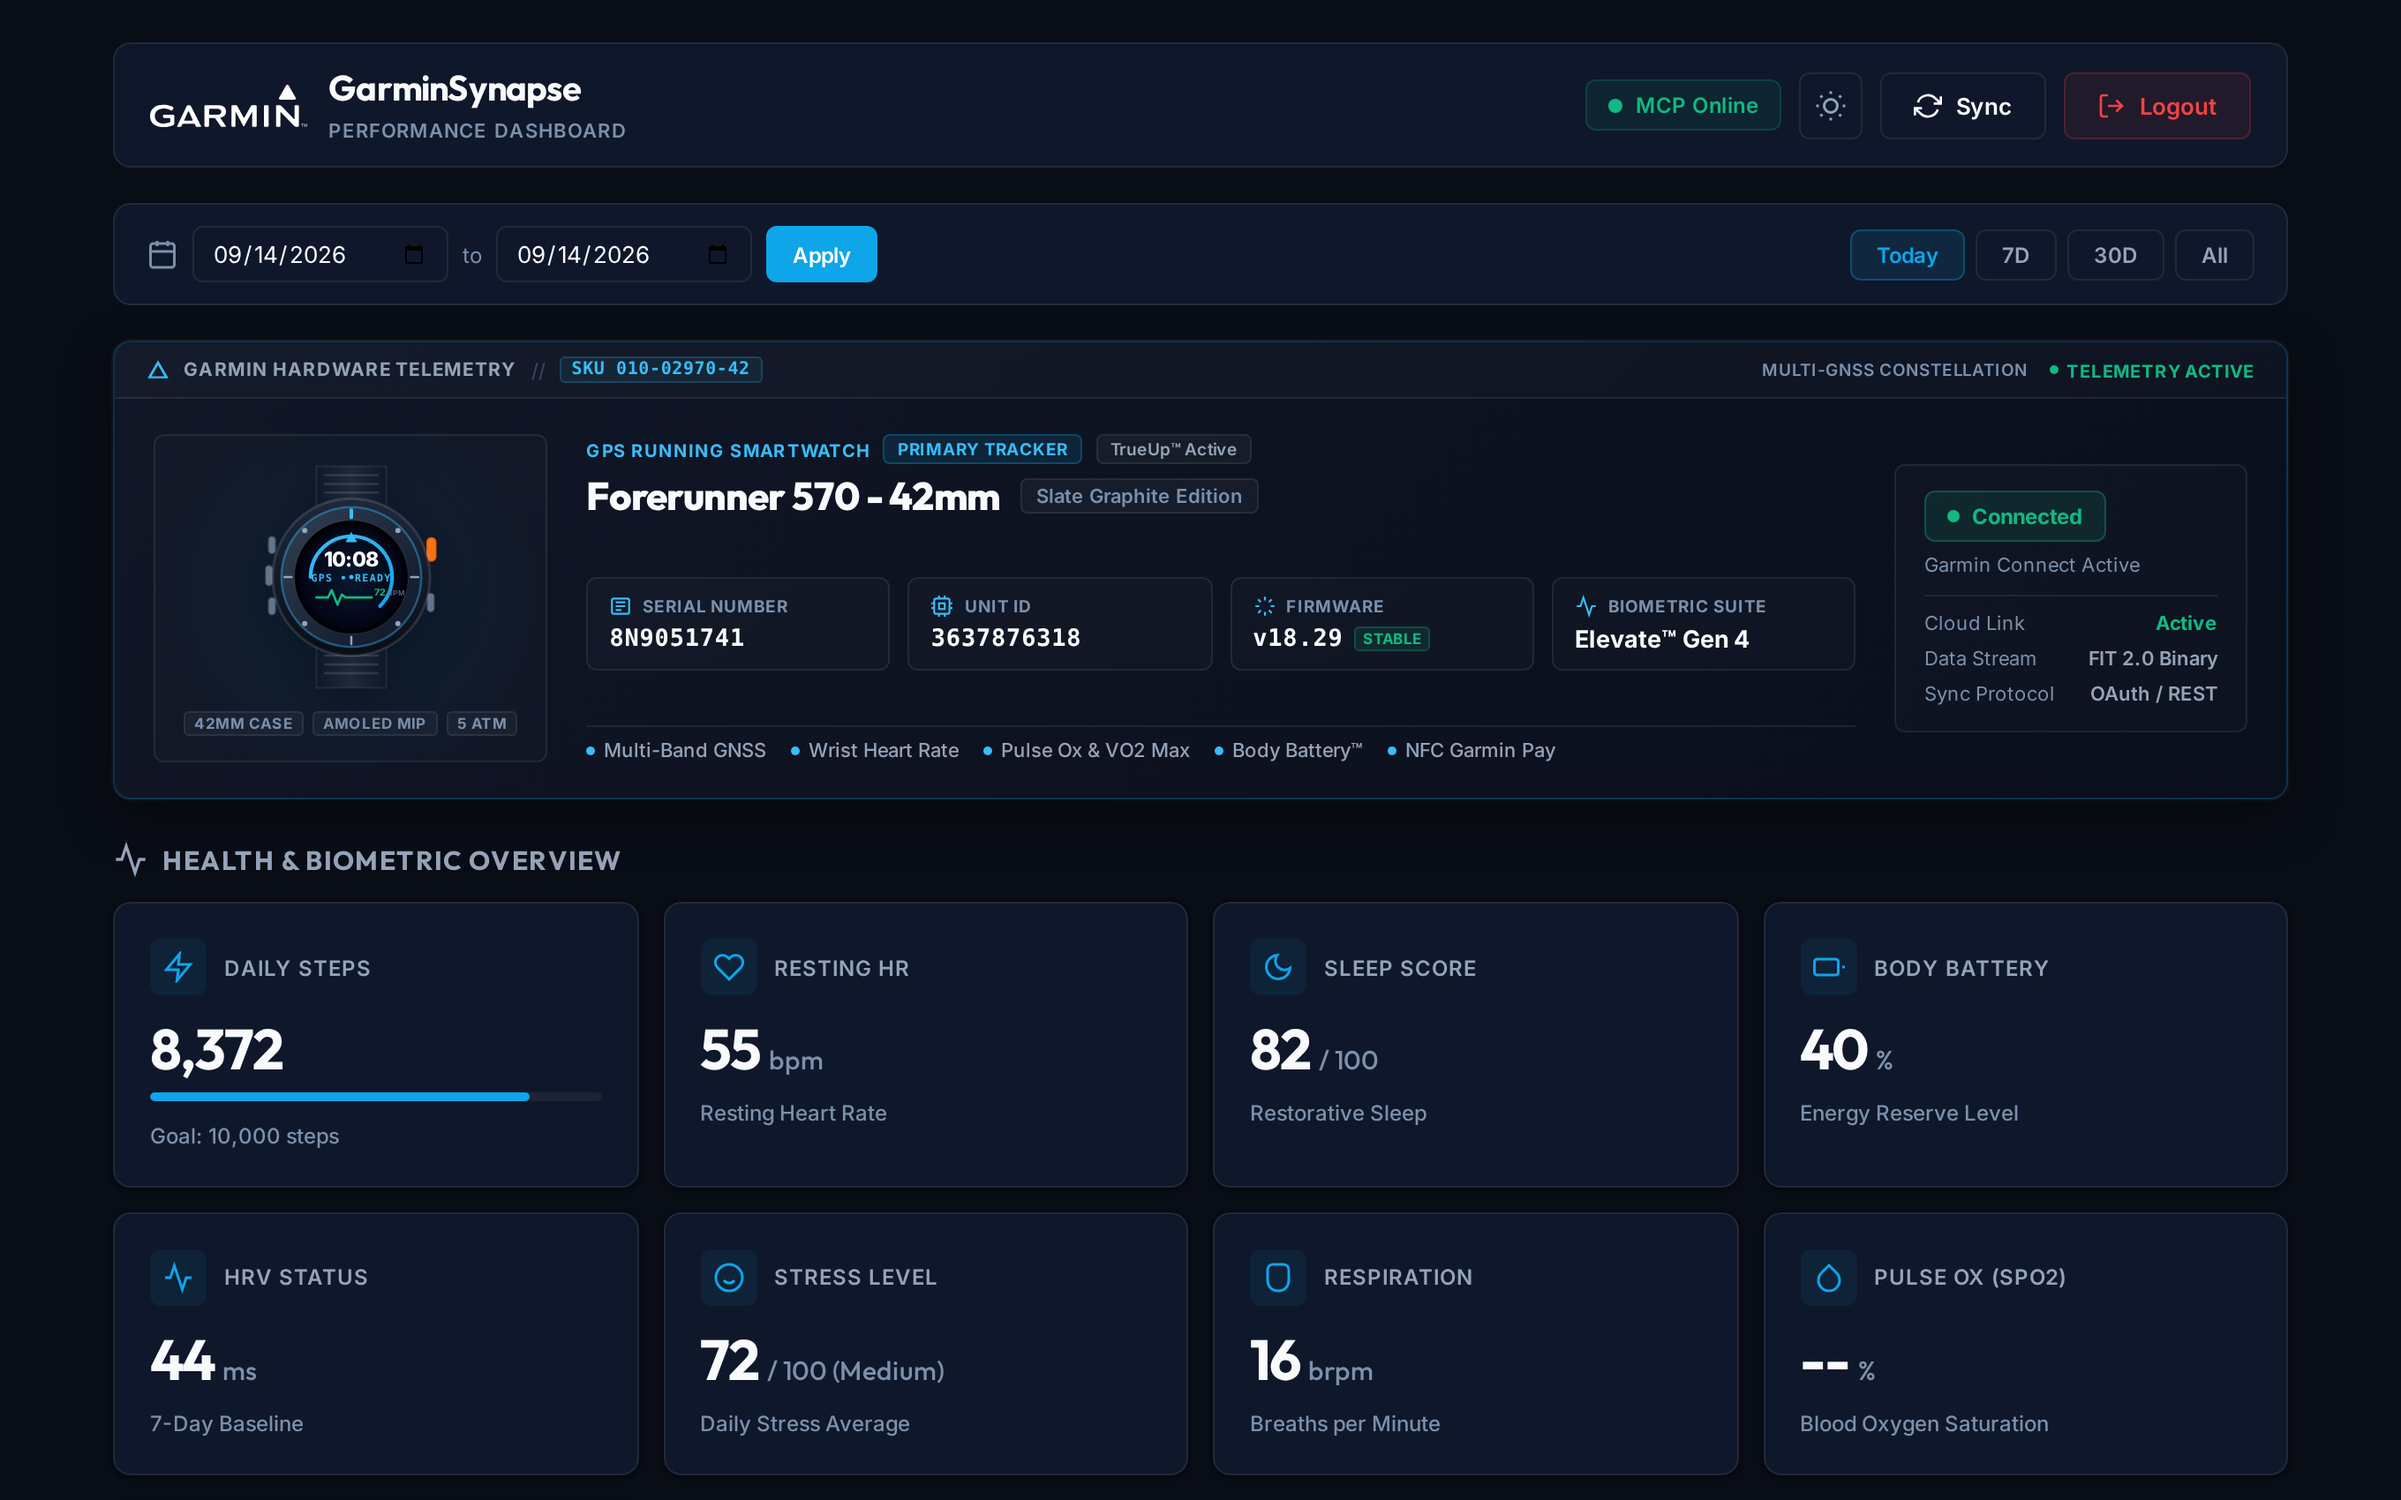
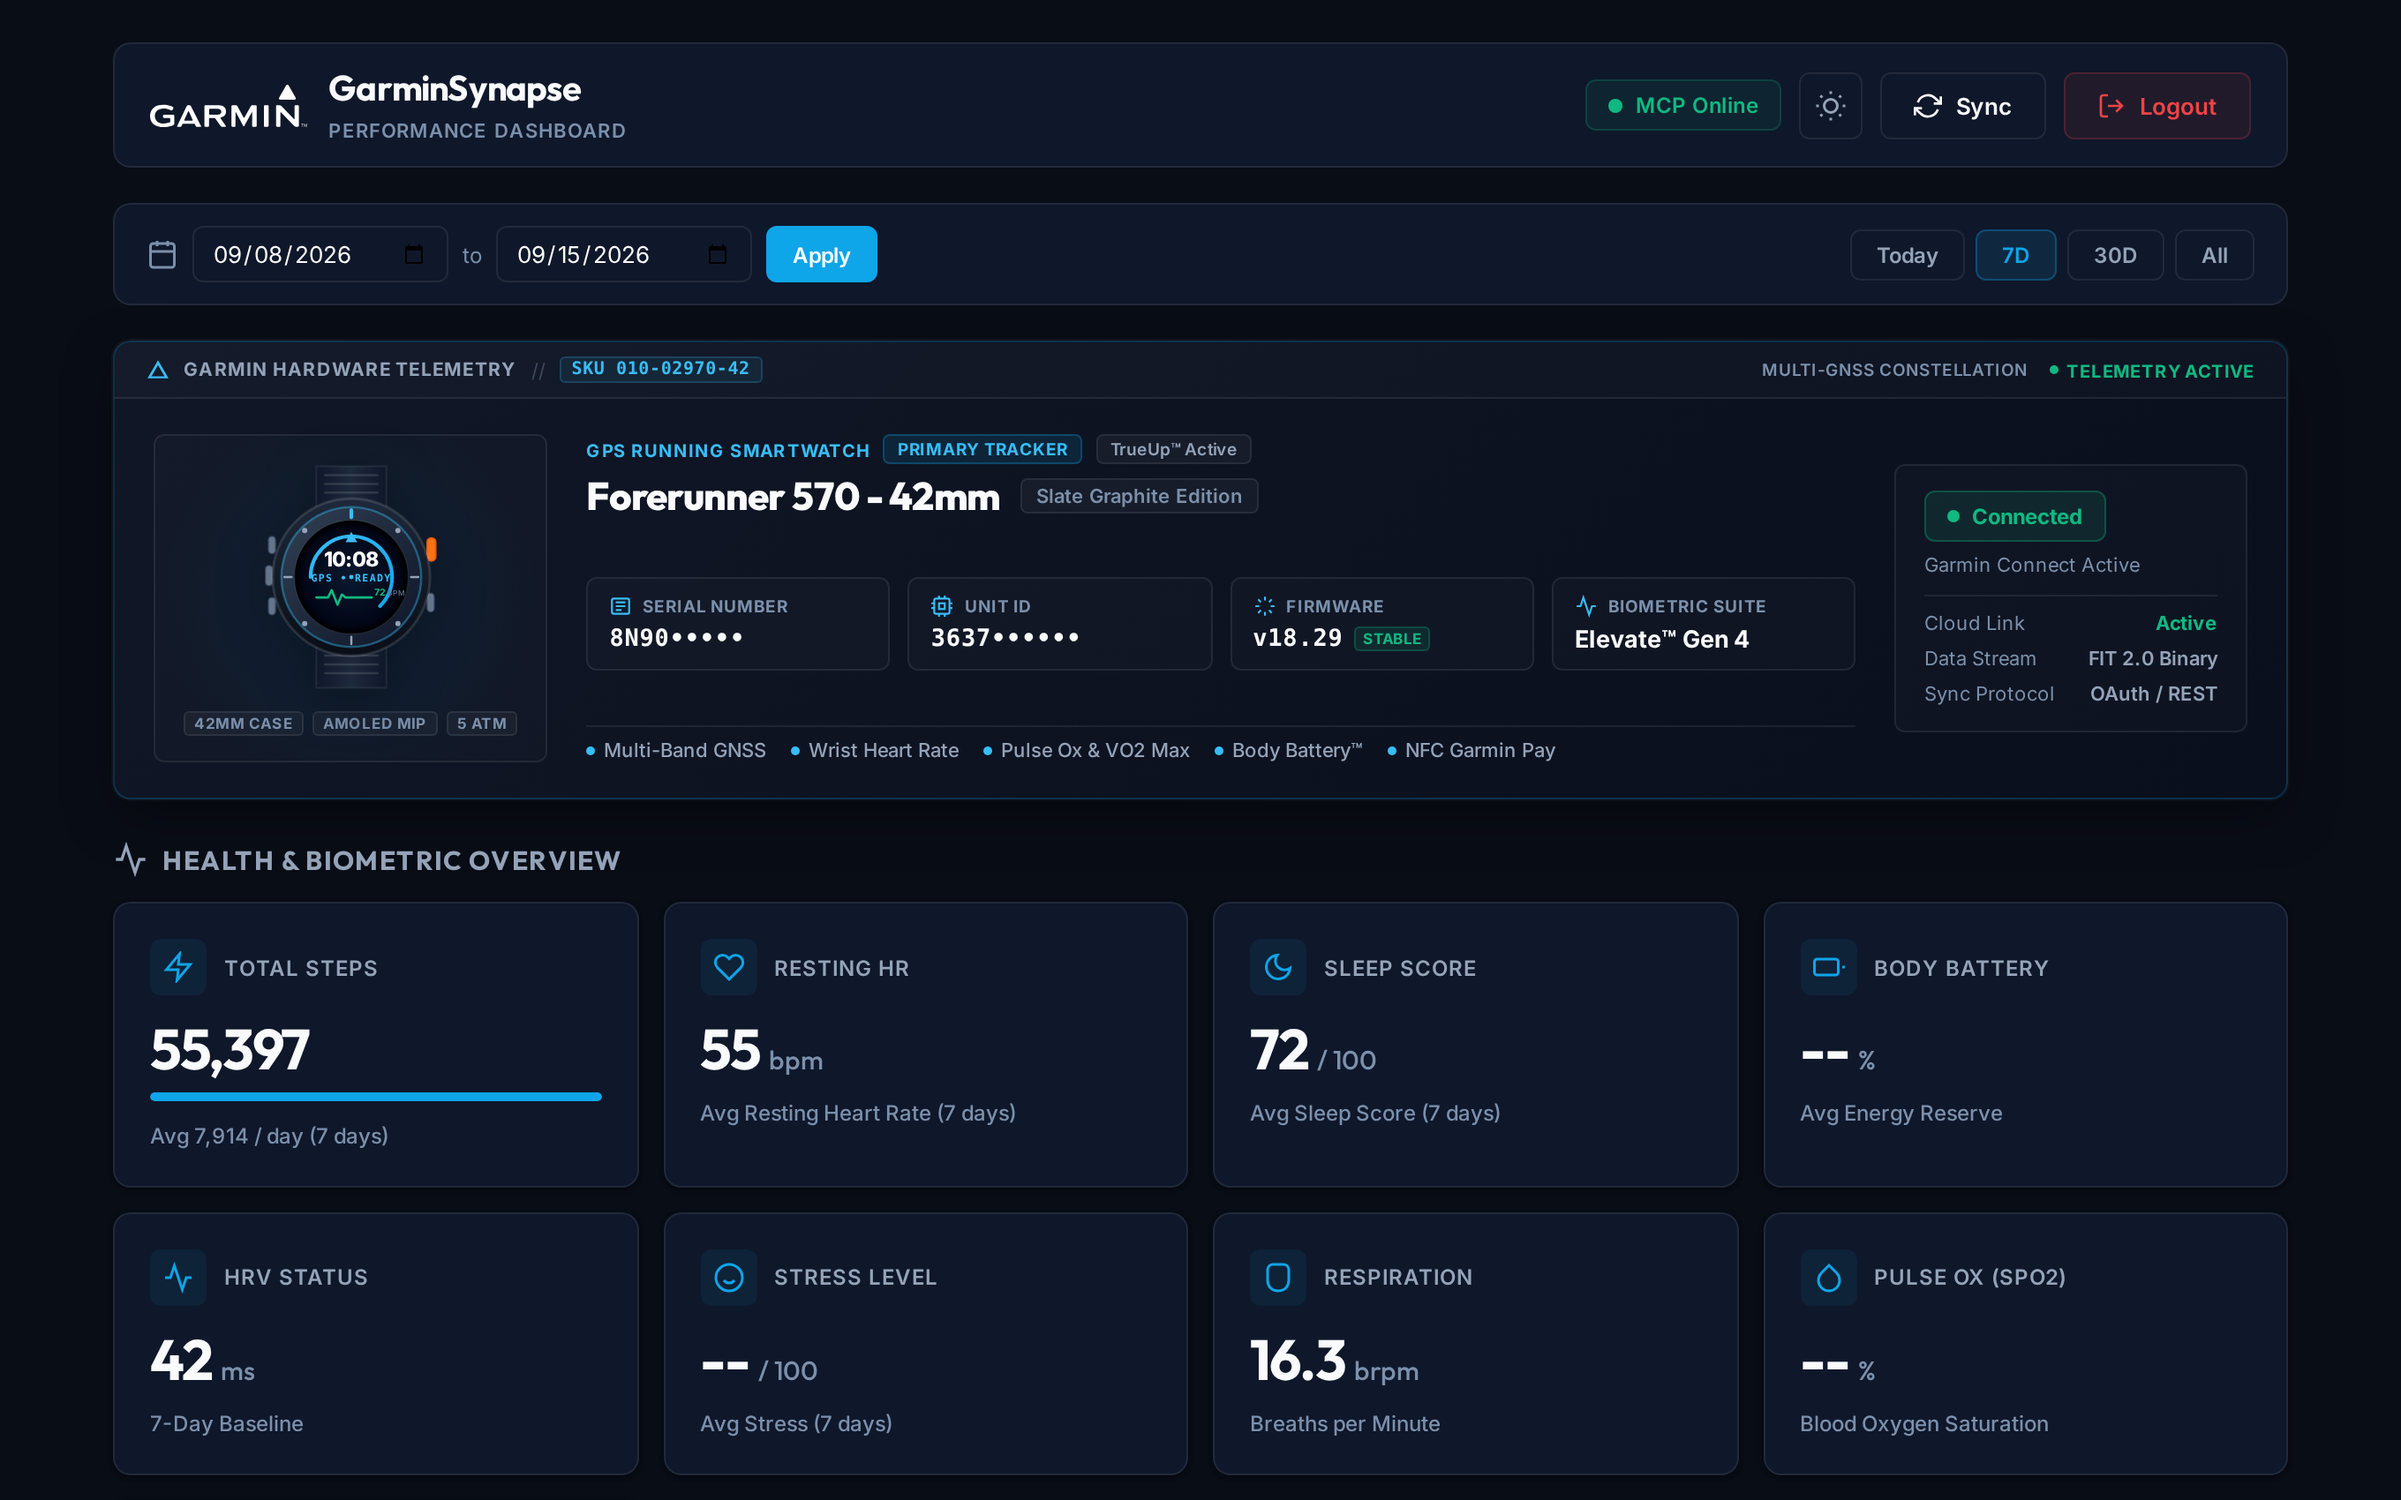
docs & privacy: place preview at top of README and mask hardware serial numbers

diff --git a/src/garminsynapse/web/static/js/app.js b/src/garminsynapse/web/static/js/app.js
@@ -128,9 +128,34 @@ document.addEventListener('DOMContentLoaded', () => {
 
         if (dev) {
             const devName = dev.productDisplayName || dev.displayName || dev.deviceCategory || 'Garmin Watch';
-            if (modelElem) modelElem.textContent = devName;
-            if (snElem) snElem.textContent = dev.serialNumber || 'N/A';
-            if (unitIdElem) unitIdElem.textContent = dev.unitId ? String(dev.unitId) : 'N/A';
+            function maskIdentifier(val, prefixLen = 4) {
+                if (!val || val === 'N/A') return 'N/A';
+                const str = String(val);
+                if (str.length <= prefixLen) return '••••';
+                return str.substring(0, prefixLen) + '•'.repeat(Math.max(4, str.length - prefixLen));
+            }
+
+            const rawSn = dev.serialNumber || 'N/A';
+            const maskedSn = maskIdentifier(rawSn, 4);
+            if (snElem) {
+                snElem.textContent = maskedSn;
+                snElem.title = 'Click to reveal / hide serial number';
+                snElem.style.cursor = 'pointer';
+                snElem.onclick = () => {
+                    snElem.textContent = (snElem.textContent === maskedSn) ? rawSn : maskedSn;
+                };
+            }
+
+            const rawUnitId = dev.unitId ? String(dev.unitId) : 'N/A';
+            const maskedUnitId = maskIdentifier(rawUnitId, 4);
+            if (unitIdElem) {
+                unitIdElem.textContent = maskedUnitId;
+                unitIdElem.title = 'Click to reveal / hide unit ID';
+                unitIdElem.style.cursor = 'pointer';
+                unitIdElem.onclick = () => {
+                    unitIdElem.textContent = (unitIdElem.textContent === maskedUnitId) ? rawUnitId : maskedUnitId;
+                };
+            }
             if (fwElem) fwElem.textContent = dev.currentFirmwareVersion ? `v${dev.currentFirmwareVersion}` : 'N/A';
             if (skuElem && dev.actualProductSku) skuElem.textContent = `SKU ${dev.actualProductSku}`;
             if (sensorElem) sensorElem.textContent = 'Elevate™ Gen 4';

diff --git a/src/garminsynapse/web/static/index.html b/src/garminsynapse/web/static/index.html
@@ -785,7 +785,7 @@
                                     </svg>
                                     <span class="telemetry-label">SERIAL NUMBER</span>
                                 </div>
-                                <span class="telemetry-value font-mono" id="device-sn-val">8N9051741</span>
+                                <span class="telemetry-value font-mono" id="device-sn-val" title="Click to reveal / hide" style="cursor: pointer;">8N90•••••</span>
                             </div>
 
                             <div class="telemetry-box">
@@ -797,7 +797,7 @@
                                     </svg>
                                     <span class="telemetry-label">UNIT ID</span>
                                 </div>
-                                <span class="telemetry-value font-mono" id="device-unitid-val">3637876318</span>
+                                <span class="telemetry-value font-mono" id="device-unitid-val" title="Click to reveal / hide" style="cursor: pointer;">3637••••••</span>
                             </div>
 
                             <div class="telemetry-box">

diff --git a/CHANGELOG.md b/CHANGELOG.md
@@ -12,7 +12,7 @@ and this project adheres to [Semantic Versioning](https://semver.org/spec/v2.0.0
 - **Engineered Hardware Telemetry Cockpit** (`web/static/`):
   - Completely redesigned device section into a high-precision athletic hardware cockpit compliant with `antislop-ui` standards.
   - **High-Definition Smartwatch Graphic**: Multi-layered vector illustration of the Garmin Forerunner GPS smartwatch featuring brushed titanium bezel, 4 hex-screws, 5 ergonomic physical pushers (including signature athletic orange `START/STOP` ring), ribbed silicone straps, and an AMOLED watch face with active ECG pulse wave, step progress arc, and digital time.
-  - **4-Box Modular Telemetry Pods**: Monospace hardware identifiers for Serial Number (`8N9051741`), Unit ID (`3637876318`), Firmware (`v18.29` with `STABLE` badge), and Biometric Sensor Suite (`Elevate™ Gen 4`).
+  - **4-Box Modular Telemetry Pods**: Monospace hardware identifiers with click-to-reveal privacy masking for Serial Number (`8N90•••••`), Unit ID (`3637••••••`), Firmware (`v18.29` with `STABLE` badge), and Biometric Sensor Suite (`Elevate™ Gen 4`).
   - **HUD Telemetry Eyebrow & Capabilities Bar**: Top HUD banner with Garmin Delta emblem, SKU badge (`010-02970-42`), satellite constellation readout (`MULTI-GNSS`), and sensor capabilities strip (`Multi-Band GNSS`, `Wrist HR`, `Pulse Ox & VO2 Max`, `Body Battery™`, `NFC Pay`).
   - **Live Connection Cockpit**: Dedicated right-hand status panel with solid status dot, Garmin Connect link status, and data stream matrix (`FIT 2.0 Binary`, `OAuth / REST`).
 

diff --git a/README.md b/README.md
@@ -1,3 +1,7 @@
+<p align="center">
+  <img src="assets/dashboard.png" alt="GarminSynapse Web Dashboard & Hardware Cockpit" width="100%">
+</p>
+
 <div align="center">
 
 # ⚡ GarminSynapse
@@ -10,13 +14,6 @@
 [![SQLite](https://img.shields.io/badge/SQLite-40%2B%20Tables-003B57.svg)](https://www.sqlite.org/)
 [![License: MIT](https://img.shields.io/badge/License-MIT-yellow.svg)](LICENSE)
 [![Code Style: Black](https://img.shields.io/badge/code%20style-black-000000.svg)](https://github.com/psf/black)
-
-<br/>
-<br/>
-
-<p align="center">
-  <img src="assets/dashboard.png" alt="GarminSynapse Web Dashboard & Hardware Cockpit" width="100%">
-</p>
 
 *Bridge your Garmin training data, health metrics, and raw `.FIT` files directly to AI Agents (Claude, Cursor, AGY) and modern web clients.*
 
